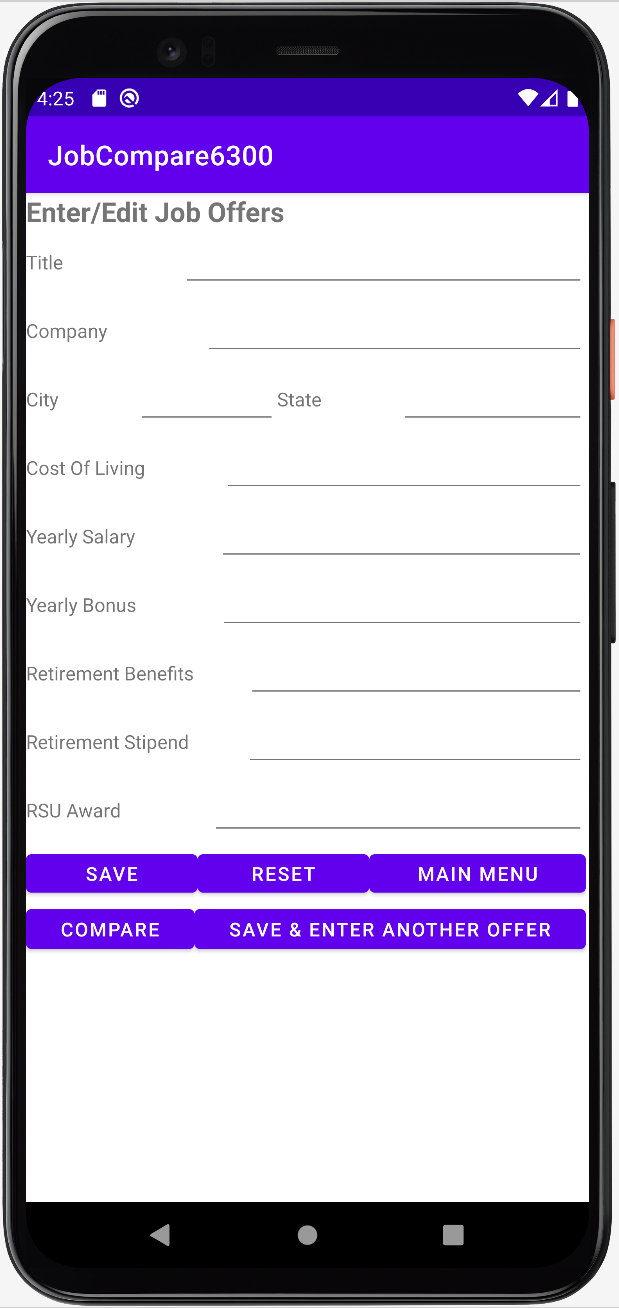
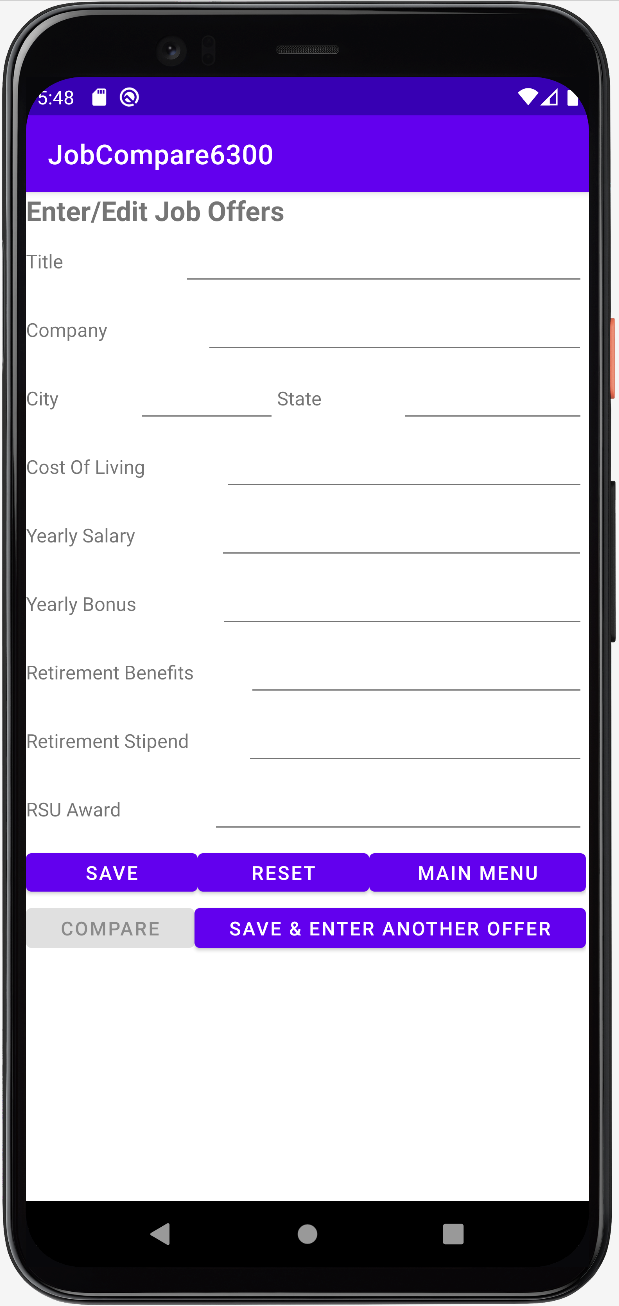
third commit

diff --git a/UserManual.md b/UserManual.md
@@ -10,58 +10,69 @@
 
 ## Introduction
 
-This Job Comparison App enables you to make comparisons between your current job and new job offers, based on your preference weightings that can be customized in the comparison settings page.
+This Job Comparison App enables you to make comparisons between your current job and new job offers, based on your preference weightings that can be customized on the comparison settings page.
+
 
 ## Main Menu
 
 <img src="./images/MainMenu.png" alt="Main Menu" width="300"/>
 
-When you first launch the application, you'll have four options:
+When the Job Comparison App is started, the main menu will be shown, there are 4 buttons provided:
 
-1. Current Job -- This allows you to enter data about your current job.  You'll be able to include your current job in your comparisons against job offers, so that you can also consider how your current postions compares with job offers.
-2. New Job Offers - This will allow you to to add a new job offer.  
-3. Settings - Here you will be able to configure your preference for how to weight various job attributes 
-4. Compare Jobs - This will present you with a ranked list of jobs and allow you to compare jobs side-by-side.
+1. ENTER/EDIT CURRENT JOB DETAILS -- You can enter and save details of your current job. Or if you saved your current job details before, the saved data will be shown, then you can edit and save the changes you have just made.
+2. ENTER/UPDATE/COMPARE JOB OFFERS - You can enter and save details of your new job offers. Or if you saved any job offers before, you can search the saved job offer so that the saved data will be shown, then you can edit and update your job offer. Besides, if you saved your current job details before, then you can also make comparison between your current job and your new job offer.
+3. ADJUST COMPARISON SETTINGS - You can edit the weightings assigned to five job attributes which contribute to the calculation of the job score in terms of a weighted average.
+4. COMPARE JOB OFFERS - You will be presented a ranked list of jobs, including your current job and all job offers, in the decending order of the job scores. Then you can select two jobs so that their data will be placed side-by-side for your comparison.
 
-*Note: the Compare Job button will be disabled if you do not have at least two job offers (or a current job and one job offer) to compare.*
+*Remark: The `COMPARE JOB OFFERS` button will not be enabled if you did not save at least two jobs before (any two of your current job or job offers).*
+
 
 ## Enter/Edit Current Job Details
 
 <img src="./images/CurrentJob.png" alt="Current Job" width="300"/>
 
-For your current job, you should enter the following details: 
+You can enter/edit your current job details, which include the following attributes:
 
 * Title
 * Company
-* Location
-* Yearly salary adjusted for cost of living
-* Yearly bonus adjusted for cost of living
+* City
+* State
+* Cost of living
+* Yearly salary
+* Yearly bonus
 * Retirement benefits
 * Relocation stipend
-* Restricted stock unit award
+* Restricted stock unit (RSU) award
+
+There are 3 buttons provided on this page:
+
+1. SAVE: Save the data entered on this page.
+2. RESET: Reset all the data on this page to blank.
+3. MAIN MENU: Go back to the main menu.
+
 
 ## Enter/Update/Compare Job Offers
 
 <img src="./images/JobOffer.png" alt="Job Offer" width="300"/>
 
-*Note: you will not be able to edit or remove these job offers after adding them. Make sure you have your details correct.*
+You can enter/edit your new job offers details, which have the same attributes as the current job. After you have entered Title and Company, the app will first search for any job offers saved before, if there is a match, then the data of that job offer will be shown for you to make changes and update. If there is no match otherwise, then you have created a new job offer, so that you can enter the new data and save.
 
-For each new job offer, you will add this information:
+There are 5 buttons provided on this page:
 
-* Title
-* Company
-* Location
-* Yearly salary adjusted for cost of living
-* Yearly bonus adjusted for cost of living
-* Retirement benefits
-* Relocation stipend
-* Restricted stock unit award
+1. SAVE: Save the data entered on this page.
+2. RESET: Reset all the data on this page to blank
+3. MAIN MENU: Go back to the main menu.
+4. COMPARE: Once you have clicked the `SAVE` button, you can click this button to make a comparison of this job offer with the current job.
+5. SAVE & ENTER ANOTHER OFFER: Save the data entered on this page for the job offer you are editing. Then reset all the data on this page to blank for you to enter another job offer.
+
+*Remark: The `COMPARE` button will not be enabled if you did not clicked the `SAVE` button or if you did not save your current job details by `ENTER/EDIT CURRENT JOB DETAILS` before.*
+
 
 ## Adjust Comparison Settings
 
 <img src="./images/Settings.png" alt="Settings" width="300"/>
 
-Our app provides an algorithm to rank job based on the data you enter -- but you have the option of weighting the various options.  Set non-negative integer weight for each of the fields below.  They will be weighted out of the sum of the integers you enter.
+You can modify the weights allocated to the 5 job attributes below for calculating the job score in terms of a weighted average value. The job score will be used on the `Compare Job Offers` page for ranking. By default, all the weights will be initially set to 1 when the app is first started. Please note only non-negative integers are allowed for the weights.
 
 * Annual Salary
 * Annual Bonus
@@ -69,27 +80,43 @@ Our app provides an algorithm to rank job based on the data you enter -- but you
 * Relocation stipend
 * Restricted stock unit award
 
-For example, if you wanted to weight the salary at twice the value of other factors, and you don't want to consider telework days at all, you might enter the following values:
+For instance, if you want to weight Annual Salary at three times the weight of any other factor, meanwhile you want to ignore Relocation Stipend, then you can set the weights as follows:
 
-| Attribute                   | Weight |
+| Job Attribute               | Weight |
 |-----------------------------|--------|
-| Annual Salary               | 2      |
+| Annual Salary               | 3      |
 | Annual Bonus                | 1      |
-| Retirement benefits         | 0      |
-| Relocation stipend          | 1      |
+| Retirement benefits         | 1      |
+| Relocation stipend          | 0      |
 | Restricted stock unit award | 1      |
+
+There are 3 buttons provided on this page:
+
+1. SAVE: Save the weights entered on this page.
+2. RESET: Reset all the weights on this page to 1.
+3. MAIN MENU: Go back to the main menu.
 
 ## Compare Job Offers
 
 <img src="./images/RankJobs.png" alt="Rank Jobs" width="300" />
+
+Once you have saved at least two jobs (no matter current job or job offers) before, you can enter this page. You will be presented a ranked list of all the jobs saved so far, ordered from the highest score to the lowest score from the top to the bottom. Then you can select two jobs from the list for comparison.
+
+There are 3 buttons provided on this page:
+
+1. RESET: Deactivate all selected jobs such that the screen is reset to no jobs being selected.
+2. COMPARE: Once you have selected two jobs, you can click this button to make a comparison between these two jobs.
+3. MAIN MENU: Go back to the main menu.
+
+*Remark: The `COMPARE` button will not be enabled if you did not select two jobs.*
+
 <img src="./images/CompareJobs.png" alt="Compare Jobs" width="300"/>
 
+After you have selected two jobs and click `COMPARE`, you will be directed to this page. The job details of these two selected jobs will be shown to you side-by-side for your comparision.
 
-In this screen, you will see a ranked list of job offers.  This ranking can be custom tailored to your preferences in the *Settings* screen.  The top of the list is the most highly ranked job opportunity.
+There are 2 buttons provided on this page:
 
-If you wish to compare the details of two jobs, simply select two jobs and tap *Compare*.
-
-
-
+1. MAIN MENU: Go back to the main menu.
+2. RETURN TO JOB COMPARE: Go back to the previous page of `Compare Job Offers`, where you can re-select two new jobs to trigger another comparison.
 
  
